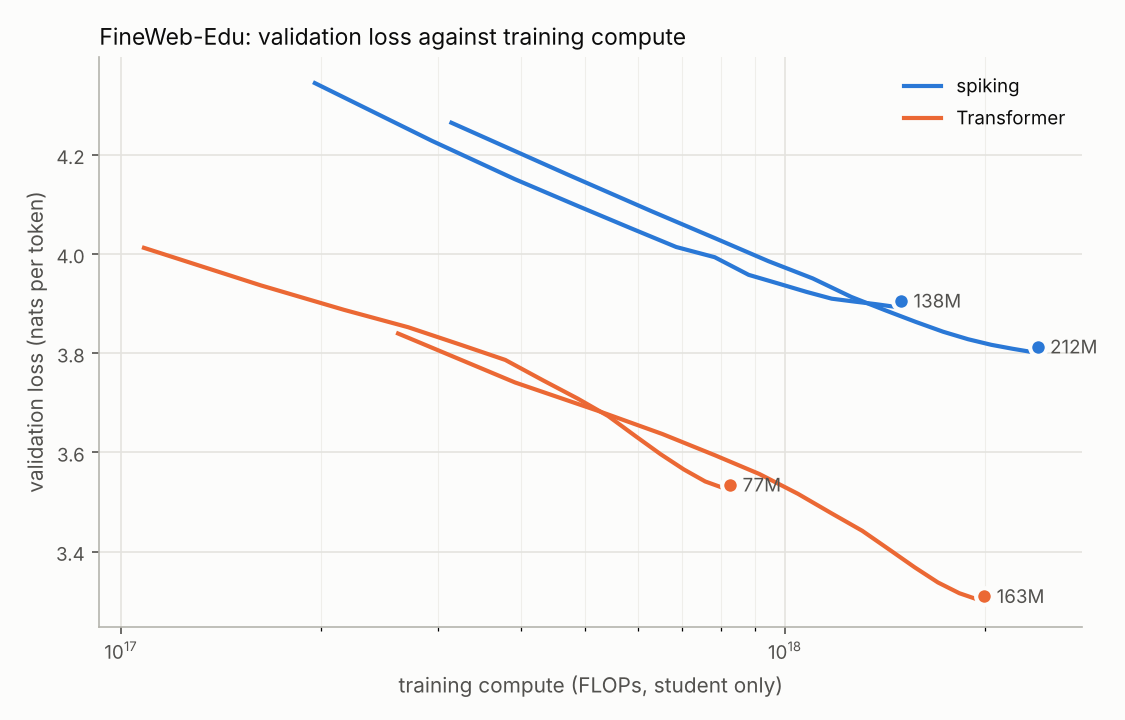
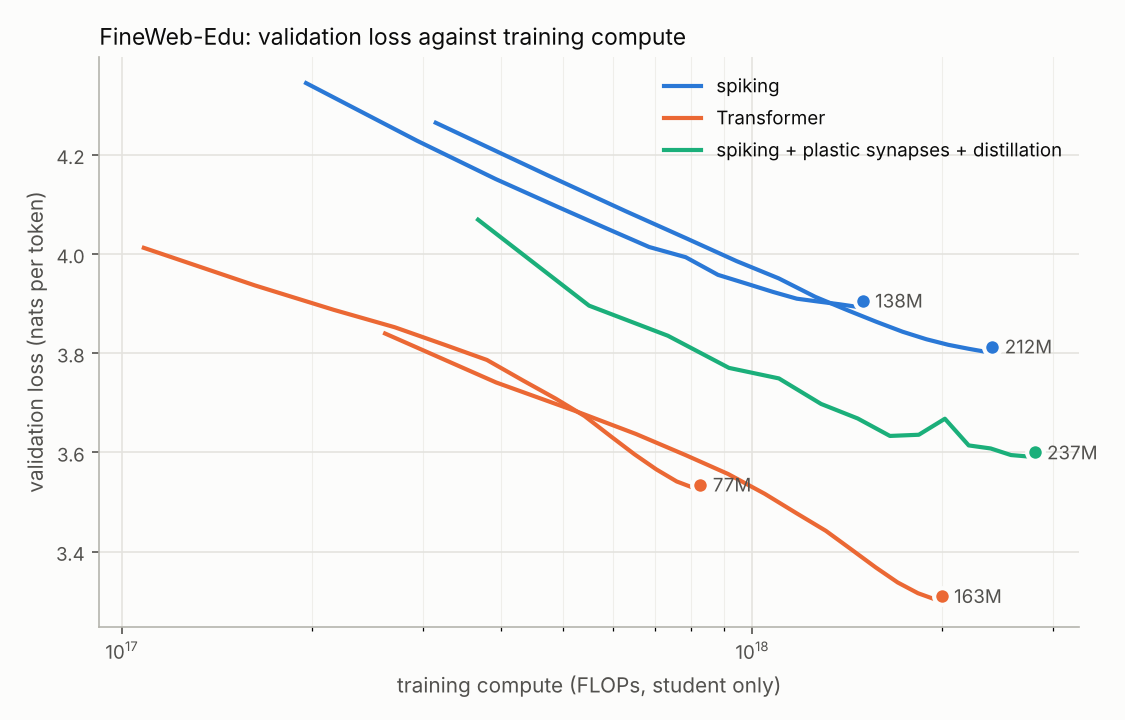
Scaling plot: add the spiking network with plastic synapses and distillation (g18_kdmem212)
scaling.py colours runs with plastic synapses separately (reference palette slot 3, aqua; slot 4 yellow
without distillation) and keeps the last of any evaluation repeated by a relay part.

Claude-Session: https://claude.ai/code/session_017FuF8yvD1B9NbxNeDz3ZXi

diff --git a/scaling.py b/scaling.py
@@ -71,6 +71,7 @@ def load_run(path):
             continue
         v = r.get("val_loss_ema") or r["val_loss"]
         tokens = r.get("tokens", r["step"] * tok_per_step)
+        pts = [q for q in pts if q["step"] != r["step"]]   # a relay part that repeated an evaluation: keep the last
         pts.append({"step": r["step"], "tokens": tokens, "flops": 6 * m * tokens, "val_loss": v})
     final = None
     for f in ("final_eval_ema.json", "final_eval.json"):
@@ -85,7 +86,10 @@ def load_run(path):
         p = os.path.join(path, f)
         if os.path.exists(p):
             params = json.load(open(p)).get("params")
-    return {"run": os.path.basename(path.rstrip("/")), "arch": a.get("arch", "snn"), "params": params,
+    kind = a.get("arch", "snn")
+    if kind == "snn" and a.get("mem_heads", 0):   # the newer recipe: plastic synapses (and distillation)
+        kind = "snn_mem_kd" if mt else "snn_mem"
+    return {"run": os.path.basename(path.rstrip("/")), "arch": a.get("arch", "snn"), "kind": kind, "params": params,
             "macs_per_token": m, "teacher_macs_per_token": mt, "points": pts, "final": final,
             "teacher_flops": 2 * mt * (final or pts[-1])["tokens"] if pts else 0}
 
@@ -108,9 +112,11 @@ def main():
     import matplotlib
     matplotlib.use("Agg")
     import matplotlib.pyplot as plt
-    # reference palette (dataviz skill): slot 1 blue for spiking networks, slot 2 orange for Transformers
-    color = {"snn": "#2a78d6", "tf": "#eb6834"}
-    name = {"snn": "spiking", "tf": "Transformer"}
+    # reference palette (dataviz skill), slots in fixed order: 1 blue spiking networks, 2 orange Transformers,
+    # 3 aqua spiking networks with plastic synapses (4 yellow: the same without distillation)
+    color = {"snn": "#2a78d6", "tf": "#eb6834", "snn_mem_kd": "#1baf7a", "snn_mem": "#eda100"}
+    name = {"snn": "spiking", "tf": "Transformer", "snn_mem_kd": "spiking + plastic synapses + distillation",
+            "snn_mem": "spiking + plastic synapses"}
     fig, ax = plt.subplots(figsize=(7.5, 4.8), dpi=150)
     fig.patch.set_facecolor("#fcfcfb"); ax.set_facecolor("#fcfcfb")
     seen = set()
@@ -120,9 +126,9 @@ def main():
         pts = [q for q in r["points"] if q["tokens"] >= a.min_tokens]
         if not pts:
             continue
-        c = color[r["arch"]]
-        label = name[r["arch"]] if r["arch"] not in seen else None
-        seen.add(r["arch"])
+        c = color[r["kind"]]
+        label = name[r["kind"]] if r["kind"] not in seen else None
+        seen.add(r["kind"])
         ax.plot([q["flops"] for q in pts], [q["val_loss"] for q in pts], color=c, lw=2, label=label)
         end = r["final"] or pts[-1]
         ax.plot([end["flops"]], [end["val_loss"]], "o", ms=8, color=c, mec="#fcfcfb", mew=2)
